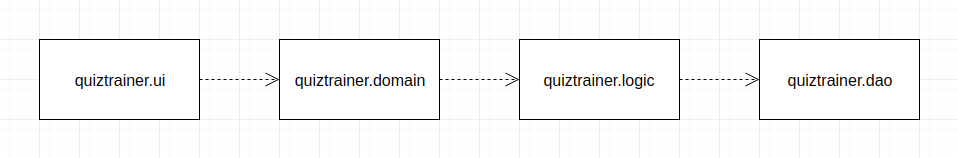
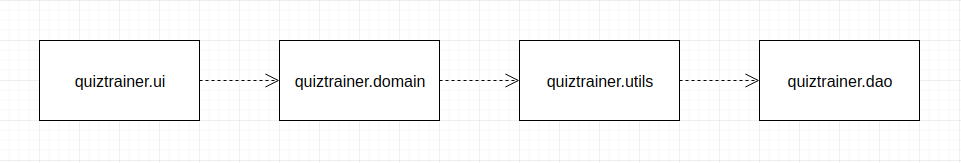
Updated documentation

diff --git a/documentation/architecture.md b/documentation/architecture.md
@@ -4,41 +4,45 @@
 
 ![Package structure](images/packages.png "Package structure")
 
-_quiztrainer.ui_ holds an user interface implemented in Java FX
-_quiztrainer.domain_ holds the main components QuizCard and Box
-_quiztrainer.logic_ has the logic side including QuizCard interval and Leitner implementation
-_quiztrainer.dao_ takes care of the data being stored
+_quiztrainer.ui_ holds an user interface implemented with JavaFX.
+_quiztrainer.domain_ holds the main logic with the main Class [QuizTrainerService](https://github.com/tommise/ot-harjoitustyo/blob/master/QuizTrainer/src/main/java/quiztrainer/domain/QuizTrainerService.java), accompanied with all the classes related to the program functionality: QuizCard, Box, Deck and User.
+_quiztrainer.utils_ has the main utilities related to program, Leitner and CardInterval.
+_quiztrainer.dao_ takes care of the data being stored to the database.
 
 ## User interface
 
-User interface has six different scenes:
-- Login
-- Signup
-- Add a card
-- My cards
-- Rehearse
-- _Statistics_
-
-_As of now, statistics scene has not been initialized._
+The user interface has ten different scenes:
+- _Starting scene_ with login and signup options
+- _Login scene_
+- _Signup scene_
+- _Main scene_ acts as a basis or 'starting menu' for the whole program
+- _Add a new QuizCard scene_
+- _Add a Deck scene_
+- _My cards scene_ where user can list and remove cards
+- _Initial rehearse scene_ where you choose a Deck to rehearse from
+- _Main rehearse scene_
+- _Statistics scene_
 
 Each of these views has their own Scene-object. Structurality of user interface can be found from [quiztrainer.ui.UserInterface](https://github.com/tommise/ot-harjoitustyo/blob/master/QuizTrainer/src/main/java/quiztrainer/ui/UserInterface.java).
 
 ## Software logic
 
-The main functionalities can be found from packages _quiztrainer.domain_ and _quiztrainer.logic_.
+The main functionalities can be found from packages _quiztrainer.domain_ and _quiztrainer.utils_ where _domain package_ acts as the main structure and _utils package_ handles the logic behind moving and picking QuizCards from the Decks and Boxes explained below.
 
 ### quiztrainer.domain
 
+**Class QuizTrainerService**
+- As stated, the main driver for the software logic can be found from the [QuizTrainerService](https://github.com/tommise/ot-harjoitustyo/blob/master/QuizTrainer/src/main/java/quiztrainer/domain/QuizTrainerService.java). QuizTrainerService handles the logic between UI and Data Access Objects. QuizTrainerService takes care of adding a new user, logging users in, logging users out, adding a new QuizCard, adding a new Deck, fetching a new QuizCard for the user in rehearse mode, handling right and wrong answers based on answer of the user, giving user QuizCard statistics and updates/refreshes Deck and QuizCard for the user interface.
+
 **Class QuizCard:**
-- A QuizCard has a question, correct answer and a set of false answers.
+- A QuizCard has a question, correct answer and a set of false answers. For statistics purposes it also holds the information how many times a card has been answered correctly and in total. To keep information about particular Deck the QuizCard belongs to, it holds a variable for deck id.
 
 **Class Box:**
-- A box holds x number of cards between 0...n. Each box has a number. This QuizCard application uses five boxes to implement a slightly modified version of [Leitner system](https://en.wikipedia.org/wiki/Leitner_system).
+- A box object holds x number of QuizCards between 0...n. Each box has a number. This QuizCard application uses five boxes to implement a slightly modified version of [Leitner system](https://en.wikipedia.org/wiki/Leitner_system).
 
 **Class Deck:**
 - A Deck has five Box objects.
 - New card will be added to Box 1.
-- Next question will be drawn from the deck using Leitner and CardInterval classes.
 
 **Class User:**
 - User has username and name information.
@@ -49,9 +53,9 @@ The implementation of these classes is straightforward:
 - User can make as many QuizCards as he wishes, one QuizCard will be pointed to one User.
 - A QuizCard will belong to one unique Box, a Box can have as many cards as possible from 0...n.
 - A Deck has five different and numerally named Boxes, one Box will belong to only one Deck.
-- User can make as many Decks as possible. In the initial stage, all cards go to the "Defaul deck". One Deck will belong to one user.
+- User can make as many Decks as possible. In the initial stage, all cards go to the "Default deck". One Deck will belong to one user.
 
-### quiztrainer.logic
+### quiztrainer.utils
 
 **Class Leitner:**
 - Moves a card from box to another based on the answer, using so called Leitner system. If the answer is wrong, card will be moven to Box 1. If the answer is right, card will be moven up.
@@ -72,32 +76,54 @@ Package _quiztrainer.dao_ holds the appropriate classes to store information int
 **Class Database:**
 - Initializes the database and handles connection.
 
-**Classes UserDAO and FileUserDAO:**
-- Saves new user data and searches user information from database.
+### Data access objects
 
-**Classes QuizCardDAO and FileQuizCardDAO:**
-- Acts such as UserDAO, but with QuizCard objects.
+All the Data Access Object classes act more or less the same way with different information related to them. They update or give a particular information from database using SQL statements. Most of the classes are searching the database with specific user id. That is because a Deck object may have identical name between many users, same is true with QuizCard objects.
 
-**Class QuizTrainerService:**
-- QuizTrainerService handles the logic between UI and Data Access Objects. QuizTrainerService takes care of adding a new user, logging users in, logging users out, adding a new QuizCard, handling right and wrong answers based on answer of the user and initalizes the default deck.
+**Classes UserDao and DbUserDao**
+- Creates User object
+- Finds user by username
+- Gets user id with username information.
+
+**Classes DeckDao and DbDeckDao**
+- Creates a Deck for specific user id
+- Finds a Deck object by deck name and user id
+- Finds and returns the id of a Deck by deck name and user id
+- Returns all the decks related to particular user id
+
+**Classes QuizCardDao and DbQuizCardDAO**
+- Creates a new QuizCard for specific user id and deck id
+- Deletes a QuizCard
+- Returns QuizCard id with question and user id information
+- Returns QuizCard with question and user id
+- Sets a new Box for the QuizCard
+- Sets a new amount how many times the QuizCard has been rehearsed
+- Sets a new amount how many times the QuizCard has been answered right
+- Returns all QuizCards related to specific user id
+- Returns all the QuizCards related to specific deck and user
 
 ## Sequence diagrams of main functionalities
 
 ### User signup
 
-When the user fills the username and name forms, class GUIHelper will check whether the inputs are valid. If the input is valid and the username is available, QuizTrainerService will create a new User with given username and name as parameters. A message will be shown to the user for successfully creating an account. The scene will not change as the user has the possibility to go back to starting menu.
+When the user fills the username and name forms, class GUIHelper will check whether the inputs are valid. If the input is valid and the username is available, QuizTrainerService will create a new User with given username and name as parameters. The scene will be changed to the login and a message will be shown to the user for successfully creating an account..
 
 ![Signup sequence diagram](images/signup_sequence_diagram.png "Signup sequence diagram")
 
 ### User login
 
-As user has filled username field and clicked the _Login_ button, QuizTrainerService will check from UserDao whether the user exists. If QuizTrainerService sends back the information that username was found, the scene will be changed to the mainScene where user has the choices to Add a card, Rehearse and Logout.
+As user has filled username field and clicked the _Login_ button, QuizTrainerService will check from UserDao whether the user exists. If QuizTrainerService sends back the information that username was found, the scene will be changed to the main scene.
 
 ![Login sequence diagram](images/login_sequence_diagram.png "Login sequence diagram")
 
 ### Adding a new QuizCard
 
-As the user has typed in the appropriate question with answers and pressed the _Add a new question_ button, QuizTrainerService proceeds to check from QuizCardDao whether the card has been already made. If no further complications arise, QuizTrainerService will create a new QuizCard with given values.
+As the user has typed and chosen the appropriate QuizCard information (question, answers and deck) and pressed the _Add a new question_ button, QuizTrainerService proceeds to check from QuizCardDao whether the card has been already made. If no further complications arise, QuizTrainerService will create a new QuizCard with given values, user will be given a notification that adding was successful and the scene will change to main scene.
 
 ![New card sequence diagram](images/new_card_sequence_diagram.png "New card sequence diagram")
 
+### Adding a new Deck
+
+As the user has typed in the Deck name, QuizTrainerService acts similar to the QuizCard above and checks whether a Deck with particular user id has been already made with the help of DeckDao. If not, a new Deck will be made, user gets notification for that, UI calls the function refreshDecks() and scene will change to main scene.
+
+![New deck sequence diagram](images/new_deck_sequence_diagram.png "New deck sequence diagram")

diff --git a/documentation/requirements_specifications.md b/documentation/requirements_specifications.md
@@ -8,36 +8,46 @@ This application is a flashcard based studying application used in a desktop set
 
 There is one type of user which is a registered user. Unregistered users can register to the application through signup form. Upon opening the app, the user will be provided with two options: Login or Signup. Registered users can login with their credentials, unregistered users can signup by pressing the signup button and they will be forwarded to the signup form view.
 
-## Basic functionality
+## Functionality
 
 ### Before login
 
-- User can create an account by providing a username which is not taken. _(Task done)_
-- User can login to the application using previously made username. _(Task done)_
+- User can create an account by providing a username which is not taken.
+- User can login to the application using previously made username.
 
 ### After login
 
-User will see four options “Add a card, Rehearse, My cards and Log out”: _(Task done)_
+User will see six options “Add a new Deck, Add a new QuizCard, My QuizCards, Statistics, Rehearse and Log out”:
 
-#### Add a card:
-- User can add a new flashcard. While adding a new flashcard, it is required to add a question, a correct answer and x amount of possible other choices. The flashcard will be added to a default deck. _(Task done)_
+#### Add a new Deck:
+- User can add a new flashcard. While adding a new flashcard, it is required to add a question, a correct answer and x amount of possible other choices. The flashcard will be added to a default deck.
+
+#### Add a new QuizCard:
+- User can add a new QuizCard. While adding a new card, it is required to add a question, a correct answer, x amount of possible other choices and the information for which deck the QuizCard is to be added to.
+
+#### My QuizCards:
+
+- User can view what cards are in each decks.
+- User can remove a specific QuizCard from the software using provided list.
+
+#### Statistics:
+
+- User can view what card has been the most rehearsed
+- User can view what card has been most answered right
+- User can view what card has been most answered wrong
 
 #### Rehearse:
 
-- User will be given a random flashcard from the default deck using Leitner system logic. _(Task done)_
-- User has few possible answers to choose from. After the user has answered, correct answer will be shown. Depending on the answer, the card “difficulty” will be updated and the card will be moved to a different box. If the answer is incorrect, the card will be rehearsed more frequently (moved to a lower box) than the card which was correctly answered. _(Task done)_
-
-#### My cards:
-
-- User can view what cards are in the default deck. _(Task done)_
+- User has the possibility to choose the Deck to rehearse from.
+- User will be given a random flashcard from the chosen deck using Leitner system logic.
+- User has three possible answers to choose from. After the user has answered, correct answer will be shown. Depending on the answer, the card “difficulty” will be updated and the card will be moved to a different box. If the answer is incorrect, the card will be rehearsed more frequently (moved to a lower box) than the card which was correctly answered.
 
 #### Log out:
 
-- User can log out which will bring the view back to the starting scene. _(Task done)_
+- User can log out which will bring the view back to the starting scene.
 
-## Further development
-
-- After login, user will see fourth option: Statistics. Statistics will show different statistics related to practising for example how many cards the user has practised.
+## Future ideas for development
+- QuizCards can be moved within different decks.
+- One unique card can be placed in many different decks simultaneously.
 - Pre-made deck will be taken from the cloud and users can use them like a normal deck.
-- User can create different decks and modify them. One unique card can be placed in many different decks simultaneously.
 - The users have a password.

diff --git a/documentation/test_documentation.md b/documentation/test_documentation.md
@@ -10,7 +10,7 @@ The main functionality which is located in the _quiztrainer.domain_ package is t
 
 Class [QuizTrainerService](https://github.com/tommise/ot-harjoitustyo/blob/master/QuizTrainer/src/main/java/quiztrainer/domain/QuizTrainerService.java) acts as a intermediary between the SQLite database and UI. With this in mind, [QuizTrainerServiceTest](https://github.com/tommise/ot-harjoitustyo/blob/master/QuizTrainer/src/test/java/quiztrainer/domain/QuizTrainerServiceTest.java) holds all the propriety test to functionally test the classes in _quiztrainer.dao_ as it's method call the dao class in question.
 
-### Logic
+### Utils
 
 The main utils of the app, namely Leitner system and Card interval classes, have been tested accordingly in [LeitnerTest](https://github.com/tommise/ot-harjoitustyo/blob/master/QuizTrainer/src/test/java/quiztrainer/domain/QuizTrainerServiceTest.java) and [CardIntervalTest](https://github.com/tommise/ot-harjoitustyo/blob/master/QuizTrainer/src/test/java/quiztrainer/domain/QuizTrainerServiceTest.java).
 
@@ -28,10 +28,12 @@ Note that UI has been excluded from the raport, as per project instructions.
 
 ### Installation and configuration
 
-The software has been tested following [User Instructions](https://github.com/tommise/ot-harjoitustyo/blob/master/documentation/user_instructions.md) in a Linux environment. For a broader test coverage multiple users have been added during testing.
+The software has been tested following [User Instructions](https://github.com/tommise/ot-harjoitustyo/blob/master/documentation/user_instructions.md) in a Linux environment. For a broader test coverage multiple users have been added and tested.
 
 ### Functionalities
 
 The functionalities has been tested as in [Requirements specification](https://github.com/tommise/ot-harjoitustyo/blob/master/documentation/requirements_specifications.md) document states them. Package _quiztrainer.ui_ holds a class named GUIHelper which tested successfully the invalid inputs like empty fields during testing.
+
+Final release was tested on the Cubbli version of Linux through student laptop.
 
 ## Left to improve

diff --git a/documentation/user_instructions.md b/documentation/user_instructions.md
@@ -58,7 +58,7 @@ Once you have rehearsed QuizCards you can start to view changes in statistics. I
 
 ### Rehearsing QuizCards
 
-Once you have decided that it is time to practise made QuizCards and pressed the _Rehearse_ button in main screen, you will be forwarded to the choose a deck screen. Here you will choose the deck to be rehearsed from the _Select a deck_ dropdown menu. Once the chosen deck is selected and the deck is not empty, you will be forwarded to the instructions screen.
+Once you have decided that it is time to practise made QuizCards and pressed the _Rehearse_ button in main screen, you will be forwarded to the choose a deck screen. Here you will choose the deck to be rehearsed from the _Select a deck_ dropdown menu. Once the chosen deck is selected press the _Rehearse mode ->_ button. Assuming that your deck is not empty, you will be forwarded to the instructions screen. Otherwise you will be given a notification that the deck is empty.
 
 ![Rehearse scene one](images/rehearse_scene1.png "Rehearse scene one")
 
